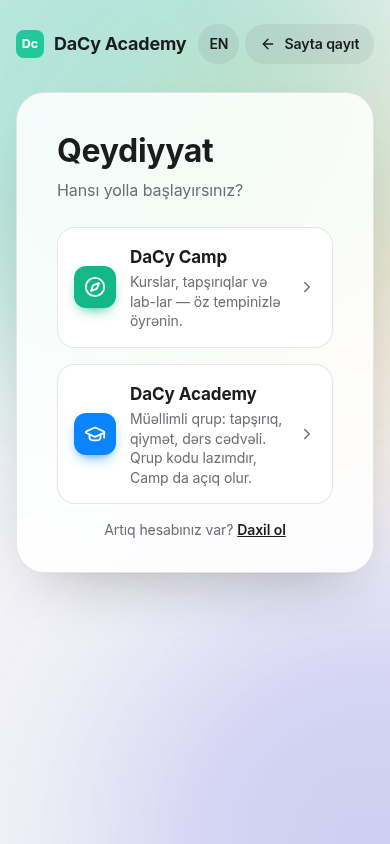
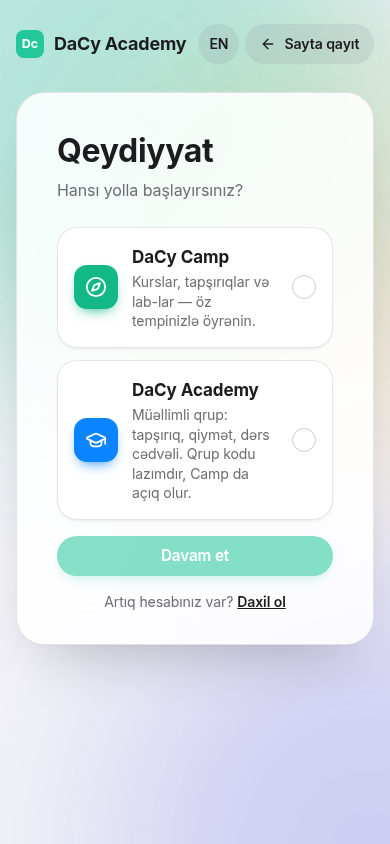
feat(web): sign-up path cards are selectable and lift when chosen
The Camp / Academy cards now work as a radio group: the chosen card rises with
a coloured border, a soft coloured shadow and a filled check mark, and
"Davam et" opens the form (double-click also continues). Reduced motion is
respected. Browser specs updated for the extra step.

Claude-Session: https://claude.ai/code/session_014wmJexaakGGD4NxaMSpyNC

diff --git a/apps/web/src/components/app/register-flow.tsx b/apps/web/src/components/app/register-flow.tsx
@@ -5,7 +5,7 @@ import { useRouter } from 'next/navigation';
 import { toast } from 'sonner';
 import { useForm } from 'react-hook-form';
 import { zodResolver } from '@hookform/resolvers/zod';
-import { ChevronRight, Compass, GraduationCap, Users } from 'lucide-react';
+import { Check, Compass, GraduationCap, Users } from 'lucide-react';
 import {
   academyJoinCodeSchema,
   academyJoinRegisterSchema,
@@ -52,42 +52,67 @@ export function RegisterFlow({
     );
   if (path === 'academy')
     return <AcademyRegisterForm initialCode={initialCode} onBack={() => setPath(null)} />;
+  return <PathChoice next={next} onContinue={setPath} />;
+}
+
+const PATHS = [
+  { id: 'camp', icon: Compass, color: '#12B886', title: 'auth.campTitle', text: 'auth.campText' },
+  {
+    id: 'academy',
+    icon: GraduationCap,
+    color: '#0A84FF',
+    title: 'auth.academyTitle',
+    text: 'auth.academyText',
+  },
+] as const;
+
+/** Yol seçimi: kart basılanda seçilir və qalxır (kölgə, rəngli çərçivə), «Davam et» formaya keçir */
+function PathChoice({ next, onContinue }: { next?: string; onContinue: (p: Path) => void }) {
+  const [picked, setPicked] = useState<Path | null>(null);
   return (
     <div className="flex flex-col gap-4" data-testid="register-choice">
       <div className="mb-2">
         <h1 className="text-[32px] font-bold tracking-[-0.01em]">{t('auth.choiceTitle')}</h1>
         <p className="mt-2 text-muted">{t('auth.choiceSubtitle')}</p>
       </div>
-      <button
+      <div role="radiogroup" aria-label={t('auth.choiceSubtitle')} className="flex flex-col gap-3">
+        {PATHS.map((o) => {
+          const on = picked === o.id;
+          return (
+            <button
+              key={o.id}
+              type="button"
+              role="radio"
+              aria-checked={on}
+              className={`reg-choice${on ? ' on' : ''}`}
+              style={{ ['--ic' as string]: o.color }}
+              onClick={() => setPicked(o.id)}
+              onDoubleClick={() => onContinue(o.id)}
+              data-testid={`choose-${o.id}`}
+            >
+              <span className="reg-choice-ic">
+                <o.icon aria-hidden />
+              </span>
+              <span className="min-w-0 flex-1">
+                <b>{t(o.title)}</b>
+                <span>{t(o.text)}</span>
+              </span>
+              <span className="reg-choice-mark" aria-hidden>
+                <Check />
+              </span>
+            </button>
+          );
+        })}
+      </div>
+      <Button
         type="button"
-        className="reg-choice"
-        onClick={() => setPath('camp')}
-        data-testid="choose-camp"
+        size="full"
+        disabled={!picked}
+        onClick={() => picked && onContinue(picked)}
+        data-testid="choice-continue"
       >
-        <span className="reg-choice-ic" style={{ ['--ic' as string]: '#12B886' }}>
-          <Compass aria-hidden />
-        </span>
-        <span className="min-w-0 flex-1">
-          <b>{t('auth.campTitle')}</b>
-          <span>{t('auth.campText')}</span>
-        </span>
-        <ChevronRight aria-hidden className="reg-choice-go" />
-      </button>
-      <button
-        type="button"
-        className="reg-choice"
-        onClick={() => setPath('academy')}
-        data-testid="choose-academy"
-      >
-        <span className="reg-choice-ic" style={{ ['--ic' as string]: '#0A84FF' }}>
-          <GraduationCap aria-hidden />
-        </span>
-        <span className="min-w-0 flex-1">
-          <b>{t('auth.academyTitle')}</b>
-          <span>{t('auth.academyText')}</span>
-        </span>
-        <ChevronRight aria-hidden className="reg-choice-go" />
-      </button>
+        {t('catalog.continue')}
+      </Button>
       <p className="text-center text-sm text-muted">
         {t('auth.haveAccount')}{' '}
         <Link

diff --git a/apps/web/src/app/globals.css b/apps/web/src/app/globals.css
@@ -4647,30 +4647,47 @@
   }
   /* qeydiyyat: Camp / Akademiya seçimi */
   .reg-choice {
+    position: relative;
     display: flex;
     align-items: center;
     gap: 14px;
     width: 100%;
     padding: 16px;
     text-align: left;
-    border-radius: 18px;
-    border: 0.5px solid var(--line);
+    border-radius: 20px;
+    border: 1px solid var(--line);
     background: var(--card);
+    box-shadow:
+      0 1px 2px rgba(0, 0, 0, 0.04),
+      0 4px 12px -8px rgba(0, 0, 0, 0.12);
     transition:
-      border-color 0.15s ease,
-      transform 0.15s ease,
-      box-shadow 0.15s ease;
+      border-color 0.2s ease,
+      background-color 0.2s ease,
+      transform 0.25s cubic-bezier(0.2, 0.8, 0.2, 1),
+      box-shadow 0.25s ease;
   }
   .reg-choice:hover {
-    border-color: color-mix(in srgb, var(--ink) 30%, var(--line));
-    box-shadow: 0 10px 24px -18px rgba(0, 0, 0, 0.35);
+    transform: translateY(-1px);
+    border-color: color-mix(in srgb, var(--ic) 35%, var(--line));
+    box-shadow:
+      0 1px 2px rgba(0, 0, 0, 0.04),
+      0 12px 24px -14px rgba(0, 0, 0, 0.22);
+  }
+  /* seçilmiş kart: qalxır, rəngli çərçivə və rəngli kölgə */
+  .reg-choice.on {
+    transform: translateY(-3px);
+    border-color: var(--ic);
+    background: color-mix(in srgb, var(--ic) 6%, var(--card));
+    box-shadow:
+      0 0 0 3px color-mix(in srgb, var(--ic) 16%, transparent),
+      0 18px 36px -16px color-mix(in srgb, var(--ic) 55%, transparent);
   }
   .reg-choice:active {
-    transform: scale(0.99);
+    transform: translateY(-1px) scale(0.99);
   }
   .reg-choice:focus-visible {
-    outline: 2px solid #0a84ff;
-    outline-offset: 2px;
+    outline: 2px solid var(--ic);
+    outline-offset: 3px;
   }
   .reg-choice b {
     display: block;
@@ -4684,25 +4701,61 @@
     color: var(--muted);
   }
   .reg-choice-ic {
-    width: 42px;
-    height: 42px;
-    border-radius: 12px;
+    width: 44px;
+    height: 44px;
+    border-radius: 13px;
     display: grid;
     place-items: center;
     flex: none;
     background: var(--ic);
     color: #fff;
     box-shadow: 0 6px 14px -6px var(--ic);
+    transition: transform 0.25s cubic-bezier(0.2, 0.8, 0.2, 1);
+  }
+  .reg-choice.on .reg-choice-ic {
+    transform: scale(1.06);
   }
   .reg-choice-ic svg {
     width: 22px;
     height: 22px;
   }
-  .reg-choice-go {
-    width: 18px;
-    height: 18px;
+  /* sağda dairə: seçiləndə rənglə dolur və işarə görünür */
+  .reg-choice-mark {
+    width: 24px;
+    height: 24px;
     flex: none;
-    color: var(--muted);
+    display: grid;
+    place-items: center;
+    border-radius: 999px;
+    border: 1.5px solid color-mix(in srgb, var(--ink) 22%, transparent);
+    color: #fff;
+    transition:
+      background-color 0.2s ease,
+      border-color 0.2s ease;
+  }
+  .reg-choice-mark svg {
+    width: 14px;
+    height: 14px;
+    stroke-width: 3;
+    opacity: 0;
+    transform: scale(0.6);
+    transition:
+      opacity 0.2s ease,
+      transform 0.2s ease;
+  }
+  .reg-choice.on .reg-choice-mark {
+    background: var(--ic);
+    border-color: var(--ic);
+  }
+  .reg-choice.on .reg-choice-mark svg {
+    opacity: 1;
+    transform: none;
+  }
+  @media (prefers-reduced-motion: reduce) {
+    .reg-choice,
+    .reg-choice-ic {
+      transition: none;
+    }
   }
   .reg-group {
     display: flex;

diff --git a/apps/web/e2e/academy-join.spec.ts b/apps/web/e2e/academy-join.spec.ts
@@ -81,9 +81,13 @@ test('qeydiyyat yol soruşur; «DaCy Academy» + kod → birbaşa qrupa, Camp da
   await page.goto('/qeydiyyat');
   await expect(page.getByTestId('register-choice')).toBeVisible();
   await expect(page.getByRole('heading', { level: 1, name: 'Qeydiyyat' })).toBeVisible();
+  await expect(page.getByTestId('choice-continue')).toBeDisabled();
+  // seçilmiş kart qalxır və işarələnir; «Davam et» formaya keçir
+  await page.getByTestId('choose-academy').click();
+  await expect(page.getByTestId('choose-academy')).toHaveAttribute('aria-checked', 'true');
   await shot(page, 'register-choice');
 
-  await page.getByTestId('choose-academy').click();
+  await page.getByTestId('choice-continue').click();
   const form = page.getByTestId('academy-register');
   await form.getByTestId('join-code').fill(joinCode.toLowerCase());
   await form.getByRole('button', { name: 'Yoxla' }).click();
@@ -122,6 +126,7 @@ test('yanlış kod: forma xəta göstərir, hesab yaranmır', async ({ page }) =
 test('yalnız «DaCy Camp» seçən tələbədə akademiya menyusu yoxdur', async ({ page }) => {
   await page.goto('/qeydiyyat');
   await page.getByTestId('choose-camp').click();
+  await page.getByTestId('choice-continue').click();
   await page.getByLabel('Ad və soyad').fill(camper.name);
   await page.getByLabel('E-poçt').fill(camper.email);
   await page.getByLabel('Şifrə', { exact: true }).fill(camper.password);
@@ -189,6 +194,7 @@ test('mobil (390px): qeydiyyat seçimi və akademiya forması sığır', async (
   expect(await overflow()).toBeLessThanOrEqual(0);
   await shot(p, 'mobile-choice', true);
   await p.getByTestId('choose-academy').click();
+  await p.getByTestId('choice-continue').click();
   await expect(p.getByTestId('academy-register')).toBeVisible();
   expect(await overflow()).toBeLessThanOrEqual(0);
   await ctx.close();

diff --git a/apps/web/e2e/phase4.spec.ts b/apps/web/e2e/phase4.spec.ts
@@ -126,6 +126,7 @@ test('qeydiyyat → onboarding → istiqamət → «Bu yola başla» → yol sə
   await page.goto('/qeydiyyat');
   // qeydiyyat əvvəlcə yol soruşur: Camp (adi) və ya Akademiya (qrup kodu ilə)
   await page.getByTestId('choose-camp').click();
+  await page.getByTestId('choice-continue').click();
   await page.getByLabel('Ad və soyad').fill(fresh.name);
   await page.getByLabel('E-poçt', { exact: true }).fill(fresh.email);
   await page.getByLabel('Şifrə', { exact: true }).fill(fresh.password);

diff --git a/apps/web/e2e/student-flow.spec.ts b/apps/web/e2e/student-flow.spec.ts
@@ -8,6 +8,7 @@ test('qeydiyyat → kataloq → kurs → yazılma → nəzəri → quiz → irə
   await page.goto('/qeydiyyat');
   // qeydiyyat əvvəlcə yol soruşur: Camp (adi) və ya Akademiya (qrup kodu ilə)
   await page.getByTestId('choose-camp').click();
+  await page.getByTestId('choice-continue').click();
   await page.getByLabel('Ad və soyad').fill('E2E Tələbə');
   await page.getByLabel('E-poçt').fill(email);
   await page.getByLabel('Şifrə').fill('Sifre1234');
